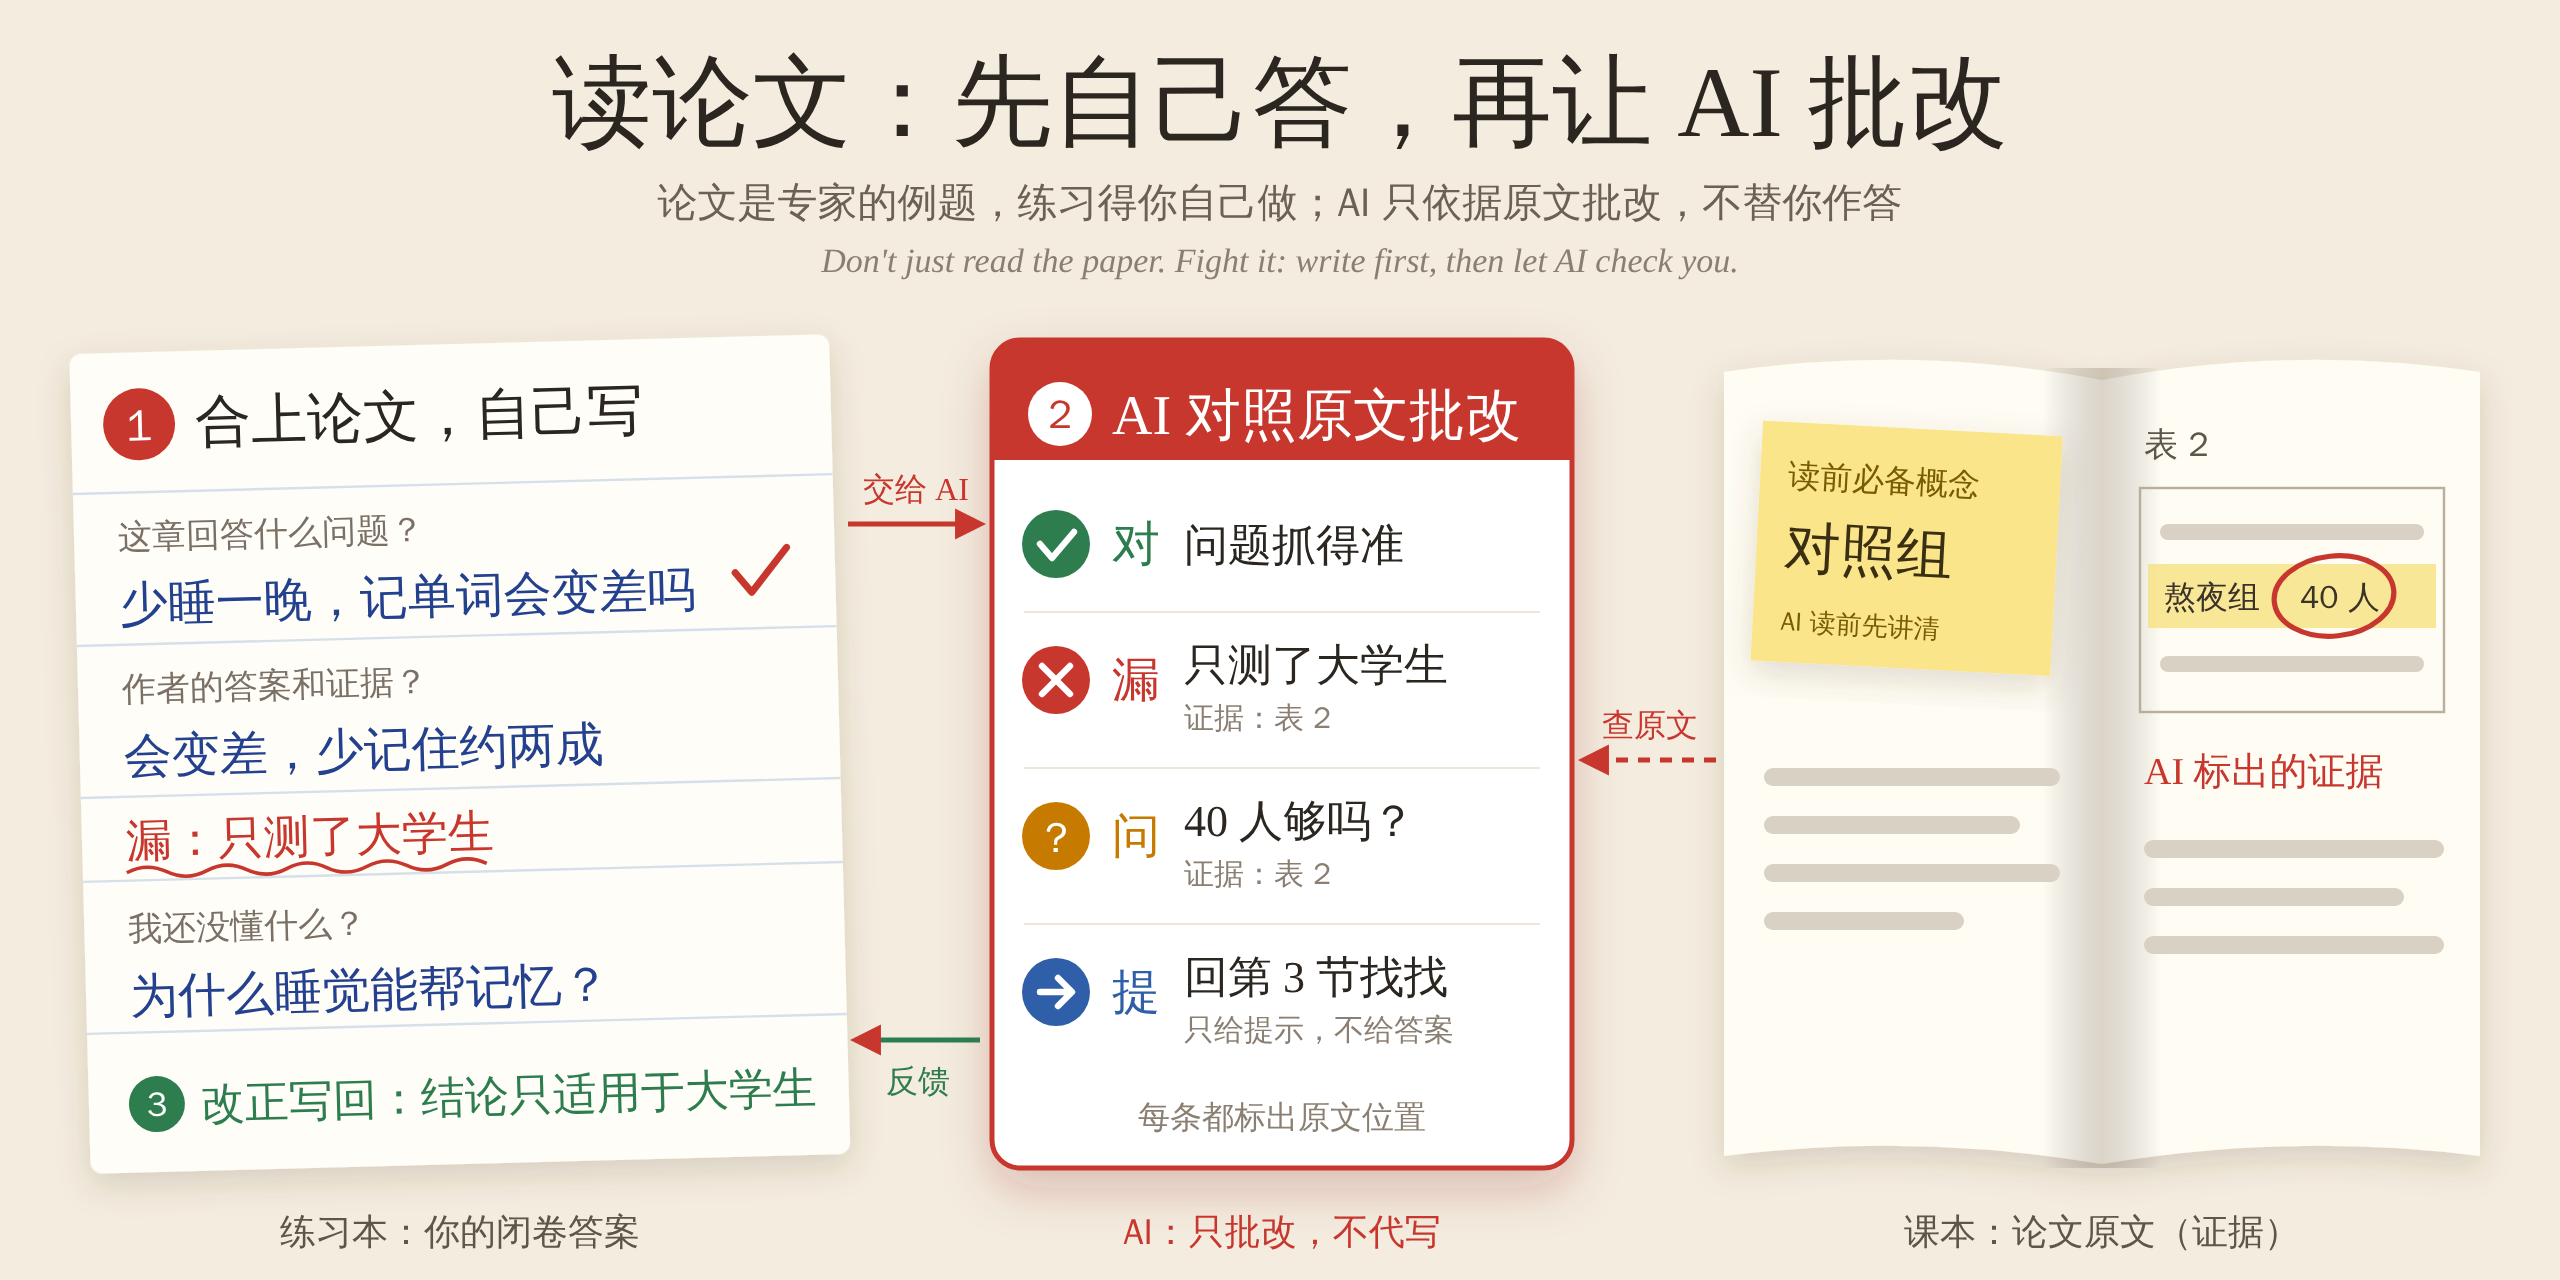
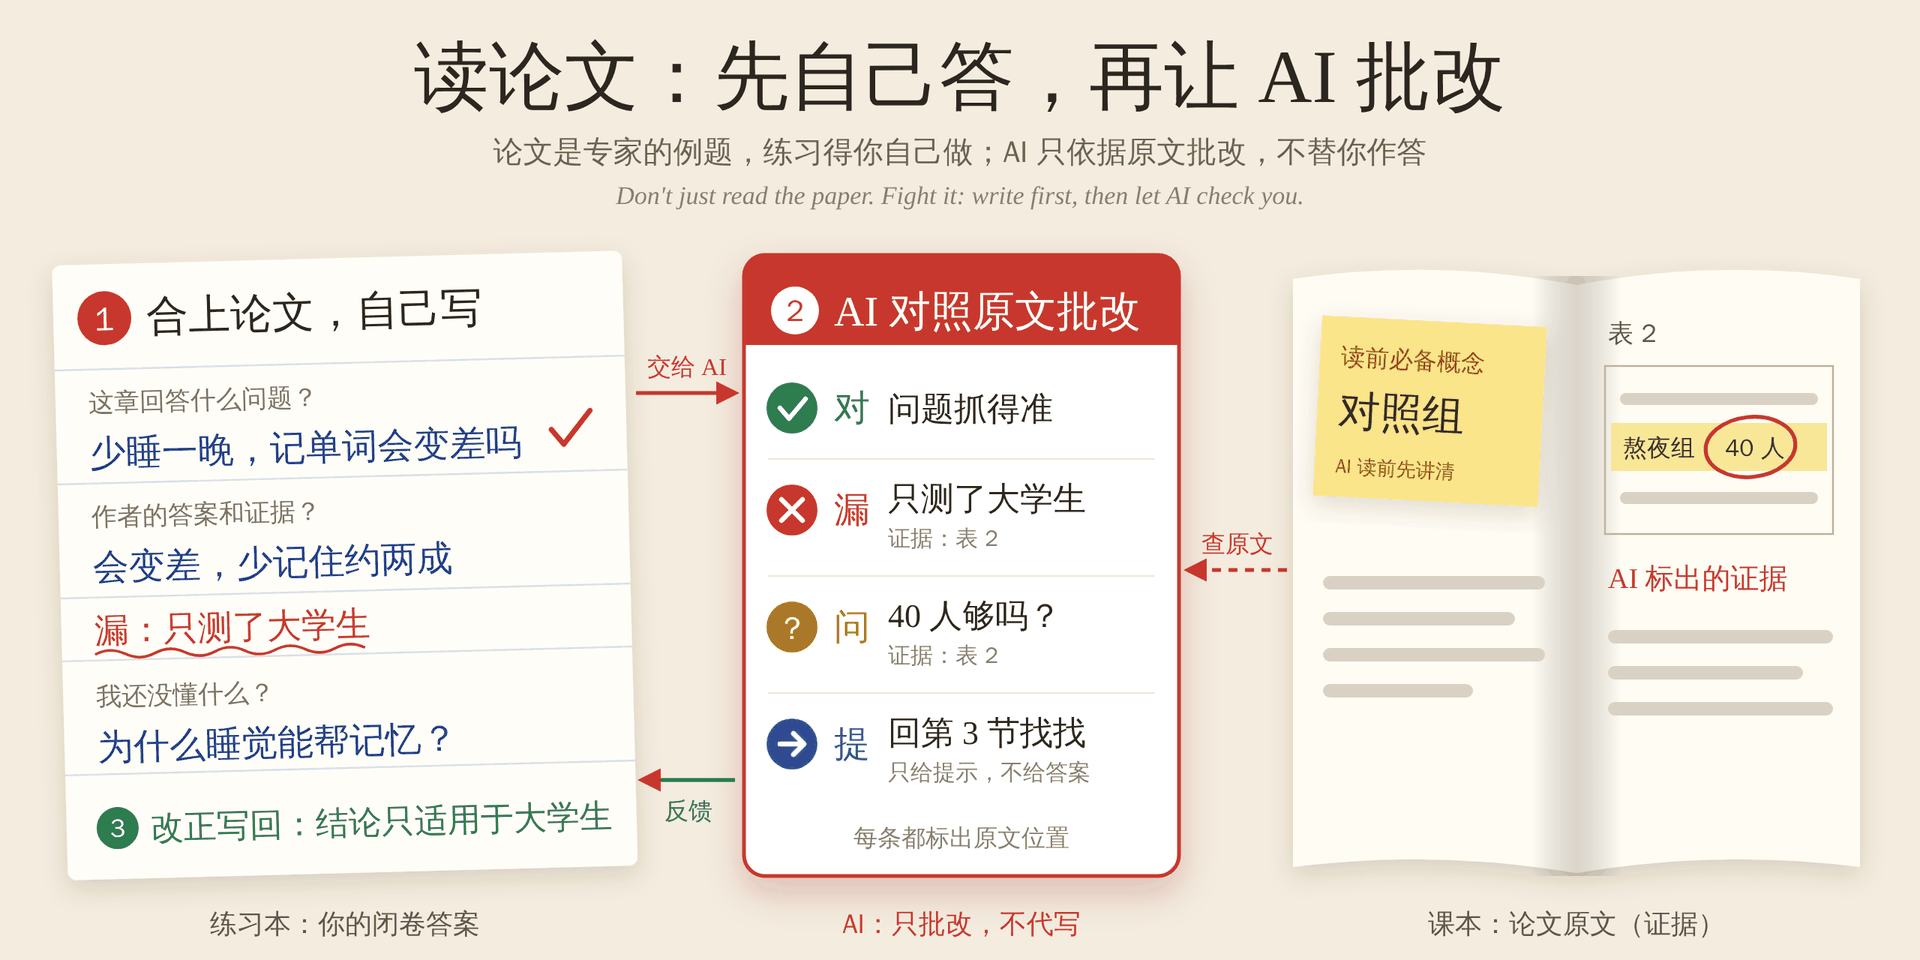
Make images load reliably
Compress banner.png and flow.png (to about 190 KB and 160 KB). Docs now link the flowchart with a relative path instead of raw.githubusercontent.com, and setup.py copies the images in assets/ into the vault so they also show offline in Obsidian.

diff --git a/setup.py b/setup.py
@@ -9,7 +9,7 @@
     python setup.py --vault "D:/Obsidian/我的知识库" --update      # 更新到新版
 
 做了什么：
-1. 把 templates/ docs/ prompts/ examples/ 复制到 <知识库>/<folder>/ 下（已有同名文件不覆盖，除非加 --force）；
+1. 把 templates/ docs/ prompts/ examples/ 和 assets/ 里的图片复制到 <知识库>/<folder>/ 下（已有同名文件不覆盖，除非加 --force）；
 2. 在 .obsidian/core-plugins.json 里开启“模板”插件；
 3. 如果知识库还没设置模板文件夹，就设为 <folder>/templates；
    如果已经设置了别的模板文件夹，不改设置，而是把母版额外复制一份到那个文件夹。
@@ -27,7 +27,8 @@ from datetime import datetime
 from pathlib import Path
 
 REPO = Path(__file__).resolve().parent
-PARTS = ["templates", "docs", "prompts", "examples"]
+PARTS = ["templates", "docs", "prompts", "examples", "assets"]
+IMAGE_SUFFIXES = {".png", ".jpg", ".jpeg", ".gif", ".svg", ".webp"}
 TEMPLATE_NAME = "论文阅读-主动思考模板.md"
 MANIFEST = ".apr-install.json"
 VERSION = (REPO / "VERSION").read_text(encoding="utf-8").strip() if (REPO / "VERSION").exists() else "未知"
@@ -45,8 +46,11 @@ def source_files():
     """仓库里要装进知识库的文件：(来源路径, 相对安装目录的路径)。"""
     for part in PARTS:
         for f in sorted((REPO / part).rglob("*")):
-            if f.is_file():
-                yield f, f.relative_to(REPO).as_posix()
+            if not f.is_file():
+                continue
+            if part == "assets" and f.suffix.lower() not in IMAGE_SUFFIXES:
+                continue  # assets 里只装图片，图片的源文件留在仓库
+            yield f, f.relative_to(REPO).as_posix()
 
 
 def copy_tree(dest, force, dry, installed):

diff --git a/AGENTS.md b/AGENTS.md
@@ -19,7 +19,7 @@
    脚本只用 Python 标准库。它会复制文件、开启 Obsidian 的“模板”核心插件、设置模板文件夹，修改前会把配置备份为 `*.bak`；已存在的同名文件不会覆盖。
 5. **告诉用户**在 Obsidian 里新建笔记，按 `Ctrl/Cmd+P` → “模板：插入模板” → `论文阅读-主动思考模板`；找不到母版时，完全关闭并重新打开 Obsidian 再试。
 
-没有 Python 时，手动完成同样的事：把 `templates/ docs/ prompts/ examples/` 复制到知识库的目标文件夹；告诉用户在 Obsidian 的“设置 → 核心插件”里开启“模板”，并在“设置 → 模板”里把模板文件夹设为 `<目标文件夹>/templates`。不要手动改写用户的 `.obsidian` 配置文件。
+没有 Python 时，手动完成同样的事：把 `templates/ docs/ prompts/ examples/` 和 `assets/` 里的图片复制到知识库的目标文件夹；告诉用户在 Obsidian 的“设置 → 核心插件”里开启“模板”，并在“设置 → 模板”里把模板文件夹设为 `<目标文件夹>/templates`。不要手动改写用户的 `.obsidian` 配置文件。
 
 ## 更新到新版
 

diff --git a/docs/00-快速上手.md b/docs/00-快速上手.md
@@ -29,7 +29,7 @@
 
 ## 读一篇论文的六步
 
-<p align="center"><img src="https://raw.githubusercontent.com/ZhangMingYangl/active-paper-reading/main/assets/flow.png" width="100%" alt="用这个项目读一篇论文：六步流程图"></p>
+![用这个项目读一篇论文：六步流程图](../assets/flow.png)
 
 1. **复制母版**，写下为什么读这篇和“我的基础”（4 行），再把笔记和 PDF 交给 AI（见下面“和 AI 配合”）。AI 会填好论文信息、论文类型、章节表格、类型模块问题和背景概念。
 2. **快速浏览 10～20 分钟**：标题和摘要 → 引言末尾的贡献 → 图表和图注 → 结论，每一步只找一样东西，笔记第 2 节写了具体找什么。

diff --git a/docs/02-让AI自动部署.md b/docs/02-让AI自动部署.md
@@ -52,7 +52,7 @@ python setup.py --vault "D:/Obsidian/我的知识库"
 
 ## 脚本会做什么
 
-1. 把 `templates/ docs/ prompts/ examples/` 复制到 `<知识库>/<文件夹>/`；已有同名文件默认跳过。
+1. 把 `templates/ docs/ prompts/ examples/` 和 `assets/` 里的图片复制到 `<知识库>/<文件夹>/`；已有同名文件默认跳过。
 2. 在 `.obsidian/core-plugins.json` 里开启 Obsidian 的“模板”核心插件。
 3. 如果你还没设置模板文件夹，就设为 `<文件夹>/templates`；如果已经设置了别的模板文件夹，不改设置，只把母版复制一份进去。
 4. 修改配置前，自动把原文件备份为 `core-plugins.json.bak`、`templates.json.bak`。

diff --git a/docs/01-新手操作教程.md b/docs/01-新手操作教程.md
@@ -5,7 +5,7 @@
 
 先看一眼全貌，下面每一步都会细讲：
 
-<p align="center"><img src="https://raw.githubusercontent.com/ZhangMingYangl/active-paper-reading/main/assets/flow.png" width="100%" alt="用这个项目读一篇论文：六步流程图"></p>
+![用这个项目读一篇论文：六步流程图](../assets/flow.png)
 
 ## 目录
 
